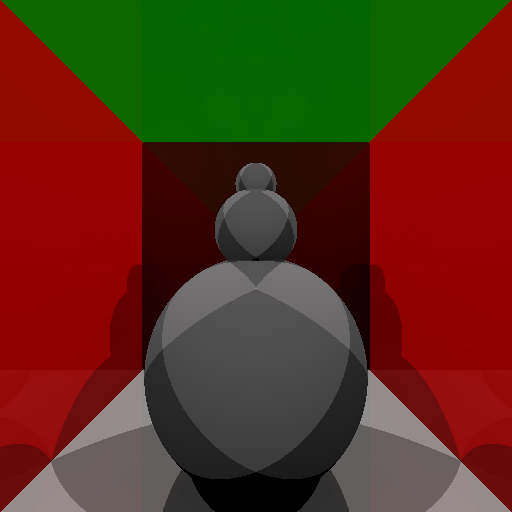
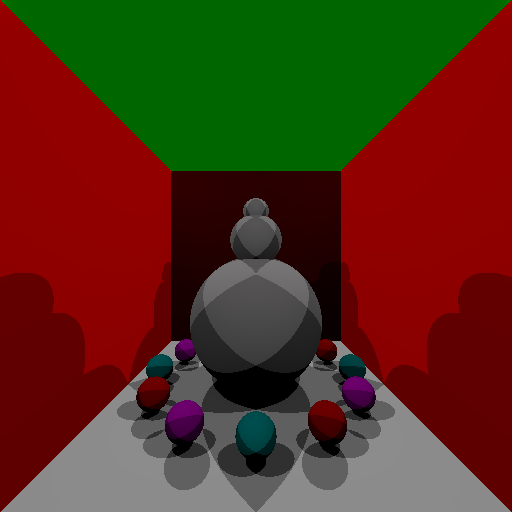
arranged spheres in scene

diff --git a/main.cpp b/main.cpp
@@ -24,7 +24,7 @@ int main(){
 
     xyz.setAxes(glm::dvec3(1,0,0),glm::dvec3(0,1,0),glm::dvec3(0,0,1));
     
-    glm::dvec3 cameraPosition = glm::dvec3(2*R,2*R,0.5*R);
+    glm::dvec3 cameraPosition = glm::dvec3(2*R,2*R,2*R);
     Camera camera = Camera(cameraPosition,xyz,width,height,M_PI/2);
 
 
@@ -57,6 +57,72 @@ int main(){
     double attenuation4 = 0.01;
     double ambientCoefficient4 = 0.1;
     PointSource* source4 = new PointSource(lightSourceLocation4,lightSourceIntensity4,attenuation4,ambientCoefficient4);
+    std::vector<Object*> shinyBalls;
+    double circleRadius = 1.5*R;
+    double kt_1 = 0.3;
+    double kr_1 = 0.6;
+
+    double kt_2 = 0;
+    double kr_2 = 0.9;
+
+    double diffCoeff1 = 0.025;
+    double specCoeff1 = 0.075;
+
+    double diffCoeff2 = 0.025;
+    double specCoeff2 = 0.075;
+
+    double shininess1 = 0.8;
+    double shininess2 = 0.8;
+
+    for(int i =0 ;i<6;i++){
+        double angle1 = i * M_PI/3;
+        double angle2 = angle1 + M_PI/6;
+        
+        glm::dvec3 loc1 = glm::dvec3( 2*R + circleRadius*cos(angle1), R/4, -2*R - circleRadius*sin(angle1));
+        glm::dvec3 loc2 = glm::dvec3(2*R + circleRadius*cos(angle2),R/4, -2*R - circleRadius*sin(angle2));
+
+        int id1 = 2*i;
+        int id2 = 2*i+1;
+
+        glm::dvec3 color1;
+        glm::dvec3 specColor1;
+
+        glm::dvec3 color2;
+        glm::dvec3 specColor2;
+
+        if(id1%3==0){
+           specColor1 = glm::dvec3(0,1,1);
+           color1 = specColor1;
+        }
+        else if(id1%3==1){
+            specColor1 = glm::dvec3(1,165/255,0);
+            color1 = specColor1;
+        }
+        else{
+            specColor1 = glm::dvec3(1,0,1);
+            color1 = specColor1;
+        }
+
+
+        if(id2%3==0){
+           specColor2 = glm::dvec3(0,1,1);
+           color2 = specColor2;
+        }
+        else if(id2%3==1){
+            specColor2 = glm::dvec3(1,165/255,0);
+            color2 = specColor2;
+        }
+        else{
+            specColor2 = glm::dvec3(1,0,1);
+            color2 = specColor2;
+        }
+
+        shinyBalls.push_back( new Sphere(id,loc1,color1,R/4,1.5,specColor1,specCoeff1,diffCoeff1,shininess1,kt_1,kr_1));
+        id++;
+
+        shinyBalls.push_back( new Sphere(id,loc2,color2,R/4,1.5,specColor2,specCoeff2,diffCoeff2,shininess2,kt_2,kr_2));
+        id++;
+    }
 
     glm::dvec3 snowColor = glm::dvec3(1,0.98,0.98);
     glm::dvec3 snowSpecColor = glm::dvec3(1,1,1);
@@ -152,6 +218,8 @@ int main(){
     objects.push_back(ceilWall);
     objects.push_back(bottomWall);
 
+    for(int i =0;i<12;i++)objects.push_back(shinyBalls[i]);
+
     lightSources.push_back(source1);
     lightSources.push_back(source2);
     lightSources.push_back(source3);
@@ -162,7 +230,7 @@ int main(){
     double start = omp_get_wtime();
     // #pragma omp parallel
     // {   
-        // #pragma omp for
+        #pragma omp parallel for
         for(int iter = 0;iter<height*width;iter++){
                 int i,j;
                 i = iter/width;
@@ -170,7 +238,7 @@ int main(){
         
                 glm::dvec3 rayDir = glm::normalize(camera.pixelToWorld( (double)j,(double)i) - camera.location);
                 Ray ray = Ray(camera.location,rayDir,1);
-                glm::dvec3 colorObtained = rayTrace(ray,objects,lightSources,1,4,glm::dvec3(0,0,0));
+                glm::dvec3 colorObtained = rayTrace(ray,objects,lightSources,1,1,glm::dvec3(0,0,0));
         
                 image[i][j][0]=(int) (colorObtained[0]*255);
                 image[i][j][1]=(int) (colorObtained[1]*255);
